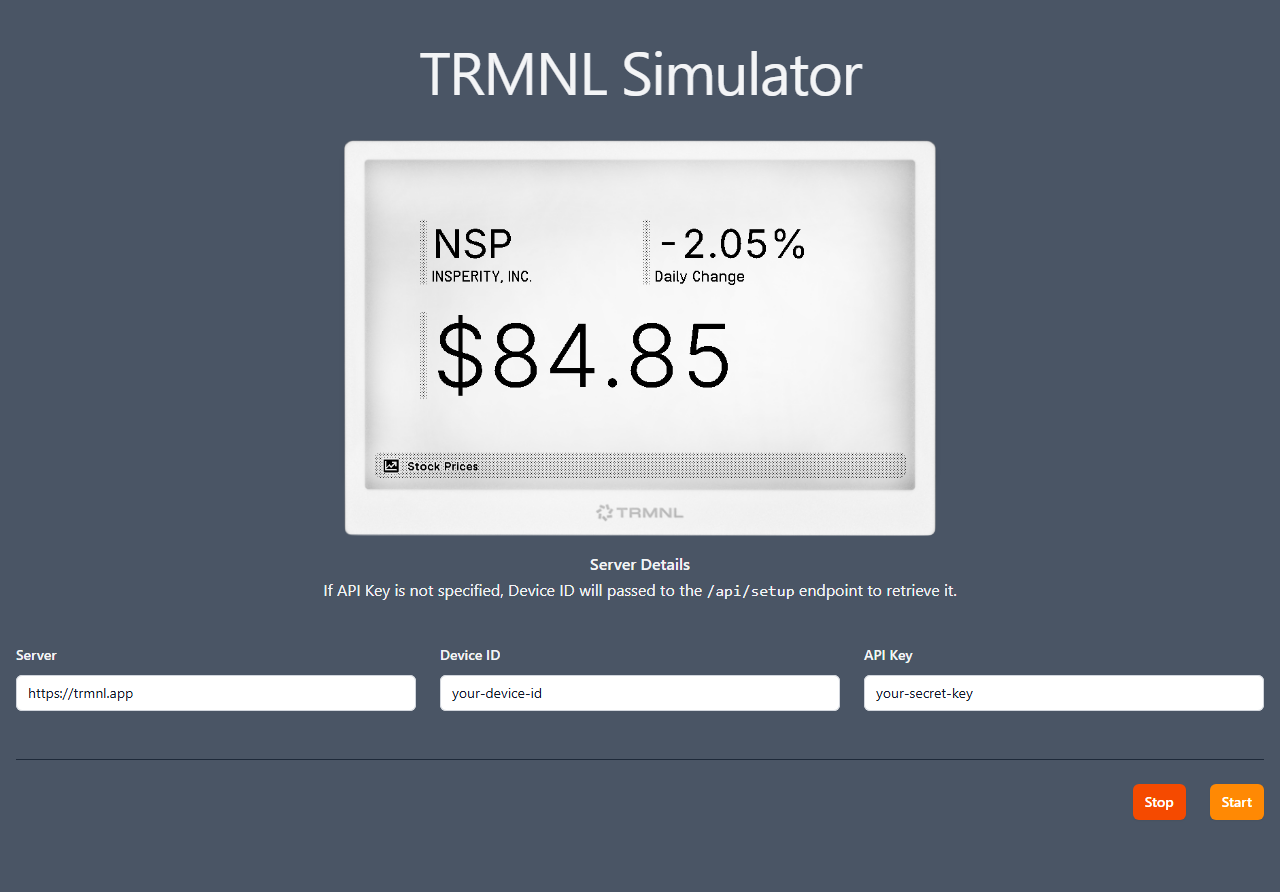
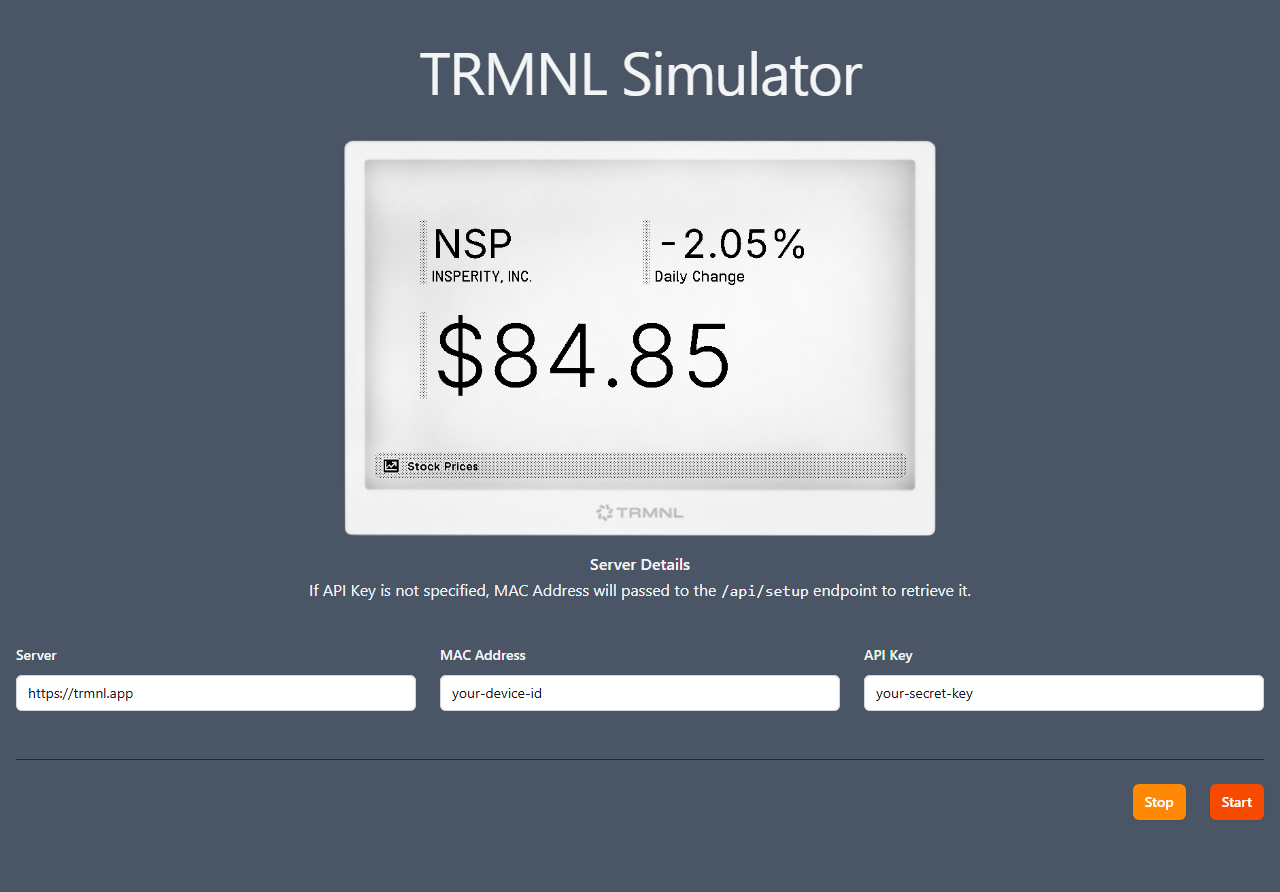
Change Device ID to MAC Address in all user visible text.

Changed region(s): [[0.25, 0.6357, 0.75, 0.6659], [0.875, 0.8778, 1.0, 0.9383], [0.3438, 0.7265, 0.4062, 0.7567]]

diff --git a/src/index.html b/src/index.html
@@ -52,7 +52,7 @@
               <div class="border-b pb-12">
                 <h2 class="text-base/7 font-semibold text-gray-100">Server Details</h2>
                 <p class="text-gray-100 mx-auto">
-                  If API Key is not specified, Device ID will passed to the <code>/api/setup</code> endpoint to retrieve it.
+                  If API Key is not specified, MAC Address will passed to the <code>/api/setup</code> endpoint to retrieve it.
                 </p>
                 <div class="mt-10 grid grid-cols-1 gap-x-6 gap-y-8 sm:grid-cols-6">
 
@@ -64,7 +64,7 @@
                   </div>
 
                   <div class="sm:col-span-2 text-left">
-                    <label for="device-id" class="block text-sm/6 font-medium text-gray-100">Device ID</label>
+                    <label for="device-id" class="block text-sm/6 font-medium text-gray-100">MAC Address</label>
                     <div class="mt-2">
                       <input type="text" placeholder="AA:BB:CC:DD:EE:FF" name="device-id" id="device-id" class="block w-full rounded-md bg-white px-3 py-1.5 text-base text-gray-900 outline-1 -outline-offset-1 outline-gray-300 placeholder:text-gray-400 focus:outline-2 focus:-outline-offset-2 focus:outline-orange-600 sm:text-sm/6">
                     </div>

diff --git a/src/js/index.js b/src/js/index.js
@@ -4,14 +4,14 @@ var frequencyInMs = 15 * 60 * 1000; // 15 mins
 
 async function setup(server) {
     if (!server) {
-        return Promise.reject(new Error('API Server is not set.'));
+        return Promise.reject(new Error('Server is not populated.'));
     }
 
     // Grab Device ID
     const deviceId = document.getElementById('device-id').value || '';
 
     if (!deviceId) {
-        return Promise.reject(new Error('Device ID is required.'));
+        return Promise.reject(new Error('MAC Address is not populated.'));
     }
 
     // Grab API Key
@@ -51,11 +51,15 @@ async function setup(server) {
 
 async function display(server, deviceId, key) {
     if (!server) {
-        return Promise.reject(new Error('API Server is not set.'));
+        return Promise.reject(new Error('Server is not populated.'));
+    }
+
+    if (!deviceId) {
+        return Promise.reject(new Error('MAC Address is not populated.'));
     }
 
     if (!key) {
-        return Promise.reject(new Error('API Key is not set.'));
+        return Promise.reject(new Error('API Key is not populated.'));
     }
 
     try {

diff --git a/README.md b/README.md
@@ -7,7 +7,7 @@ Can be used to test different server implementations or as a virtual device whil
 
 ## Basic Use
 
-Specify the server URL or use the default, fill in your Device ID and optionally API Key, then click start.
+Specify the server URL or use the default, fill in your Device ID (MAC Address) and optionally API Key, then click start.
 The page will make a call to `/api/setup` to get an API key if not specified, then call `/api/display` every X seconds
 based on the interval you specified on the portal.
 
